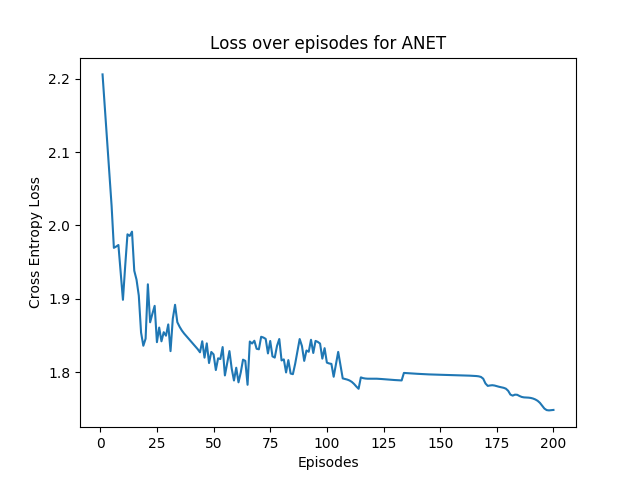
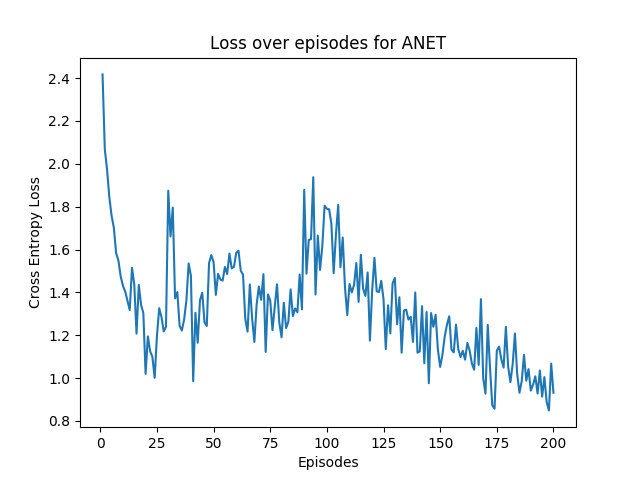
Applying heuristics when fitting to D after selected actual action

diff --git a/environment/state_manager.py b/environment/state_manager.py
@@ -22,6 +22,7 @@ class StateManager:
 
     def __init__(self, game_config):
         self.game_config = game_config
+        self.game_type = game_config["game_type"]
         self.game = None
 
     def init_new_game(self):
@@ -80,8 +81,7 @@ class StateManager:
         :param action_index: int
         :return: Action
         """
-        game_type = self.game_config["game_type"]
-        if game_type == "hex":
+        if self.game_type == "hex":
             size = self.game_config["hex"]["board_size"]
             action_coord = index_to_coordinate(action_index, size)
             action = HexAction(player, action_coord)
@@ -108,13 +108,12 @@ class StateManager:
         :return: a probability distribution over actions
         """
         # TODO: The calculation of this could be wrong - should test more here
-        game_type = self.game_config["game_type"]
-        if game_type == "hex":
+        if self.game_type == "hex":
             size = self.game_config["hex"]["board_size"]
             D = torch.zeros((size, size), dtype=torch.float)
             for child in root.children:
                 row, col = child.action.get_coord()
-                D[row][col] = child.total   # TODO: Could use value here as well?
+                D[row][col] = child.total  # TODO: Could use value here as well?
 
             D = D.flatten(0)
             D = (D - D.mean()) / D.std()  # Normalize values to be smaller
@@ -125,4 +124,32 @@ class StateManager:
 
         else:
             raise ValueError("Distribution is not supported for this game type")
+        return D
+
+    def apply_heuristics(self, node: Node, D: torch.Tensor) -> torch.Tensor:
+        """
+        Modify D with additional heuristics like searching for obvious wins in next move
+        :param node: Node with selected action
+        :param D: probability distribution over actions
+        :return: potentially modified probability distribution over actions
+        """
+        if self.game_type == "hex":
+            state, player = node.state, node.player
+
+            # If first move in game, select center
+            if sum(state) == 0:
+                D.apply_(lambda x: 0)
+                D[len(state) // 2] = 1.0
+                return D
+
+            # Check for obvious wins in next move
+            for i, p in enumerate(D):
+                # If probability is higher than 50%, check if it could be a winning state
+                if p > 0.5:
+                    test_state = state.copy()
+                    test_state[i] = player
+                    if self.verify_winning_state(test_state):
+                        D.apply_(lambda x: 0)
+                        D[i] = 1.0
+                        return D
         return D

diff --git a/simulator/game_simulator.py b/simulator/game_simulator.py
@@ -88,6 +88,9 @@ class GameSimulator:
                 # Get the probability distribution over actions from current root/state.
                 D = mcts.get_root_distribution()
 
+                # Modifying D for obvious wins or other heuristics
+                D = game.apply_heuristics(mcts.root, D)
+
                 # Add (root, D) to Replay Buffer. This will later be used as training data for the actors policy
                 rbuf.add_case((mcts.root, D))
 
